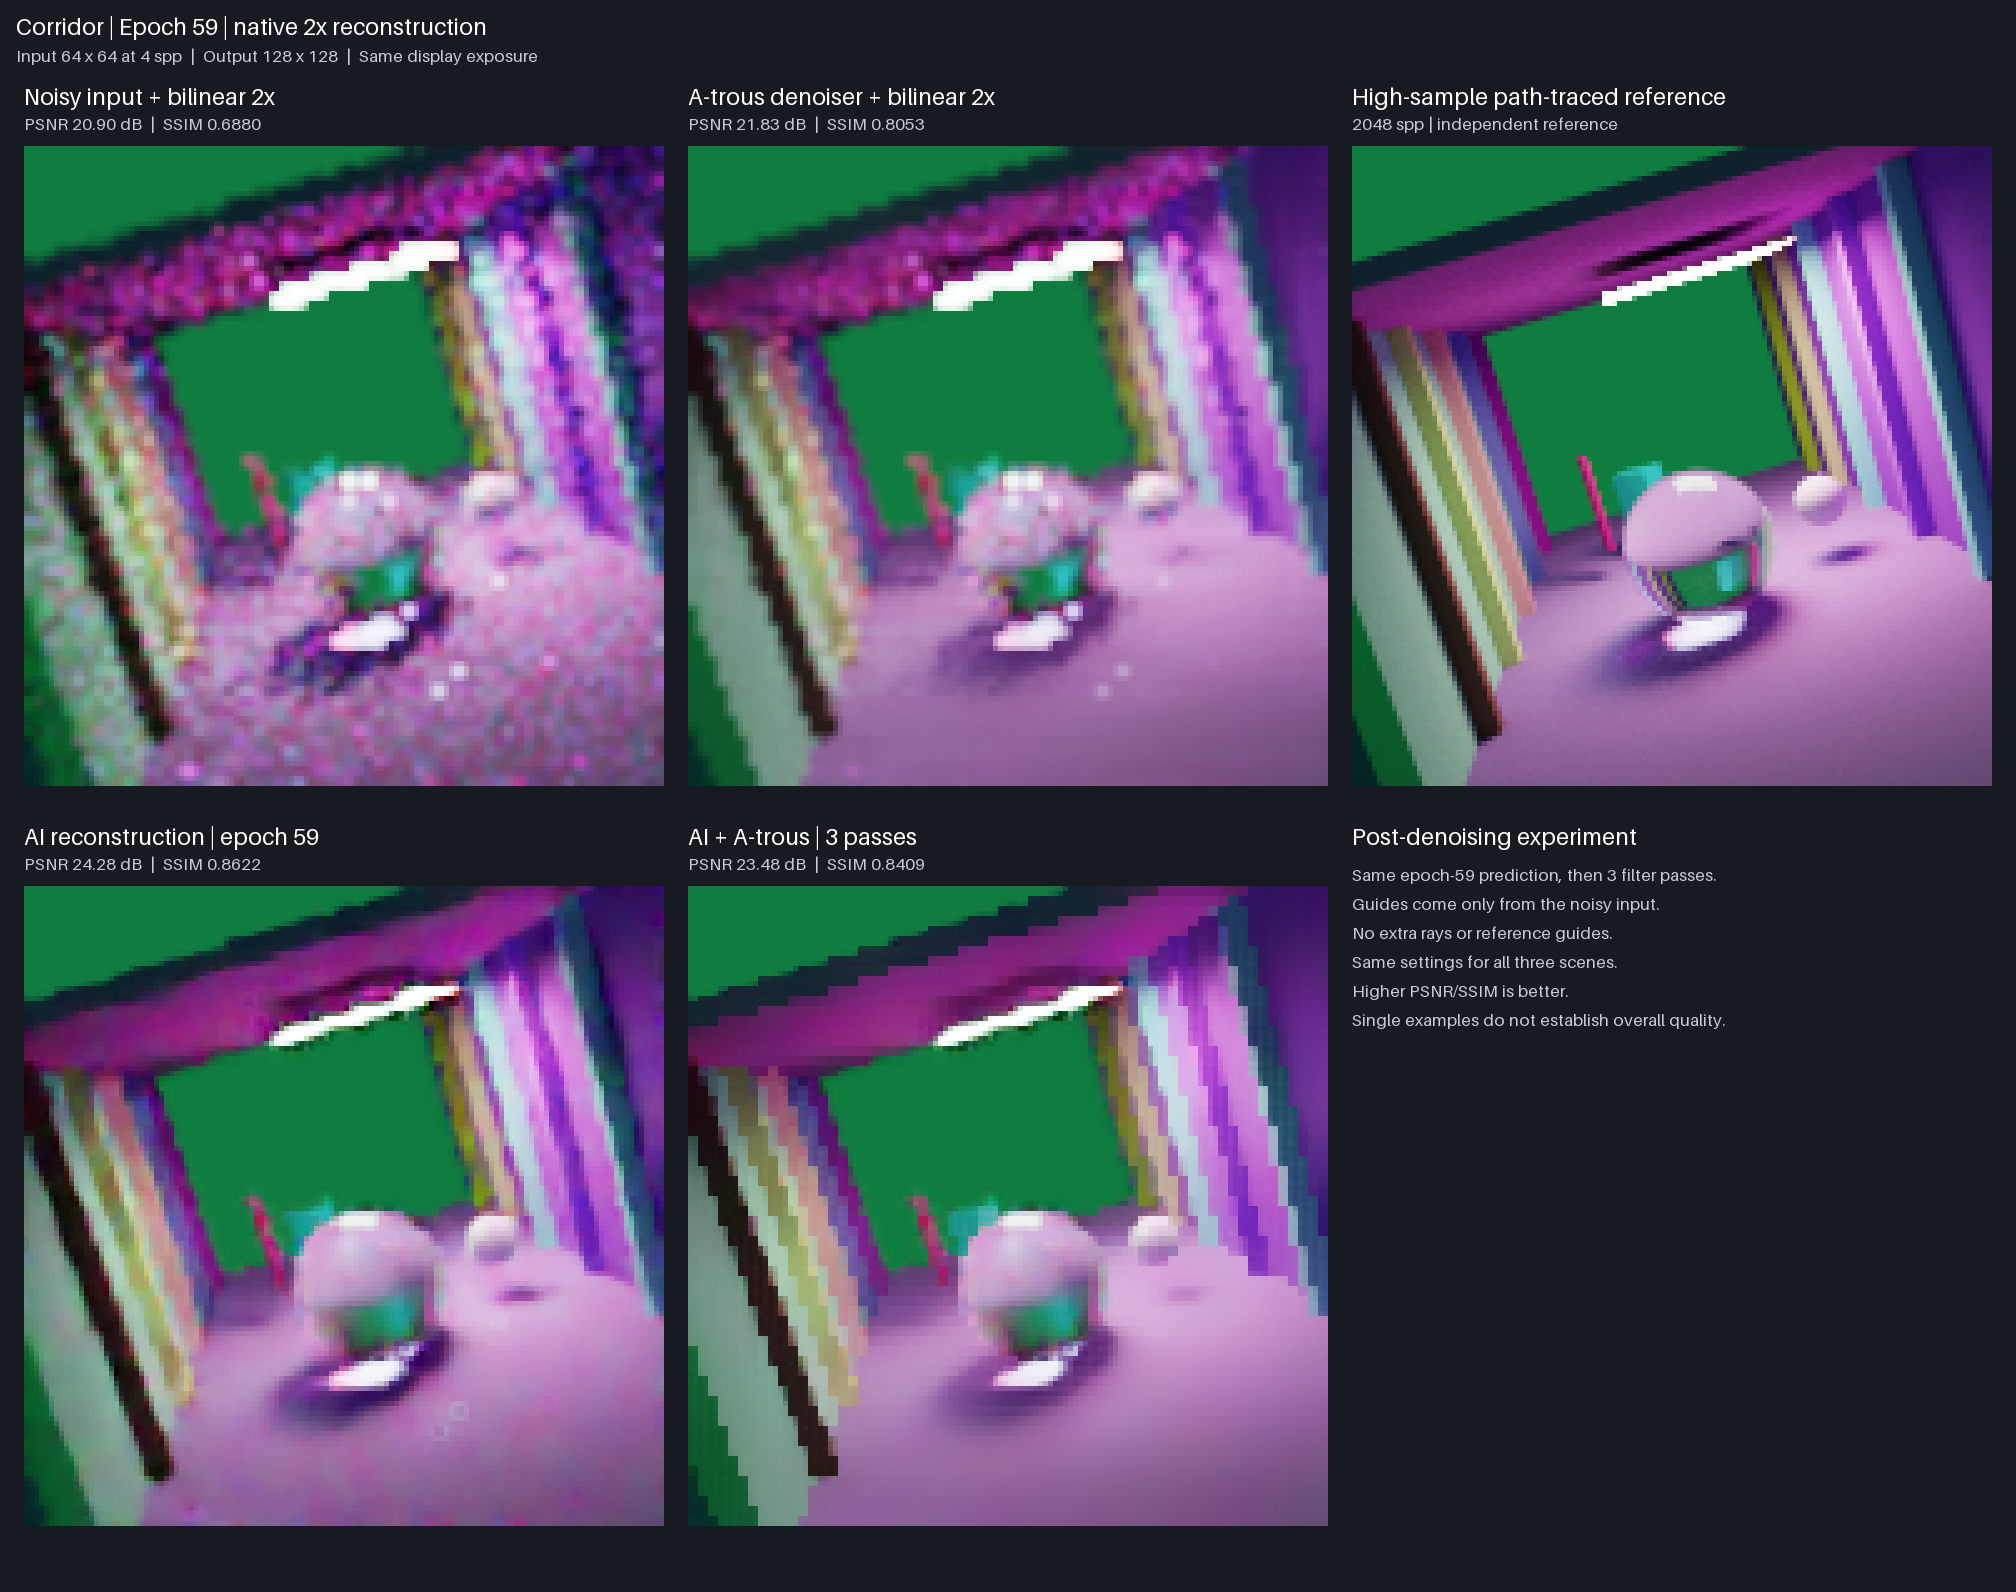
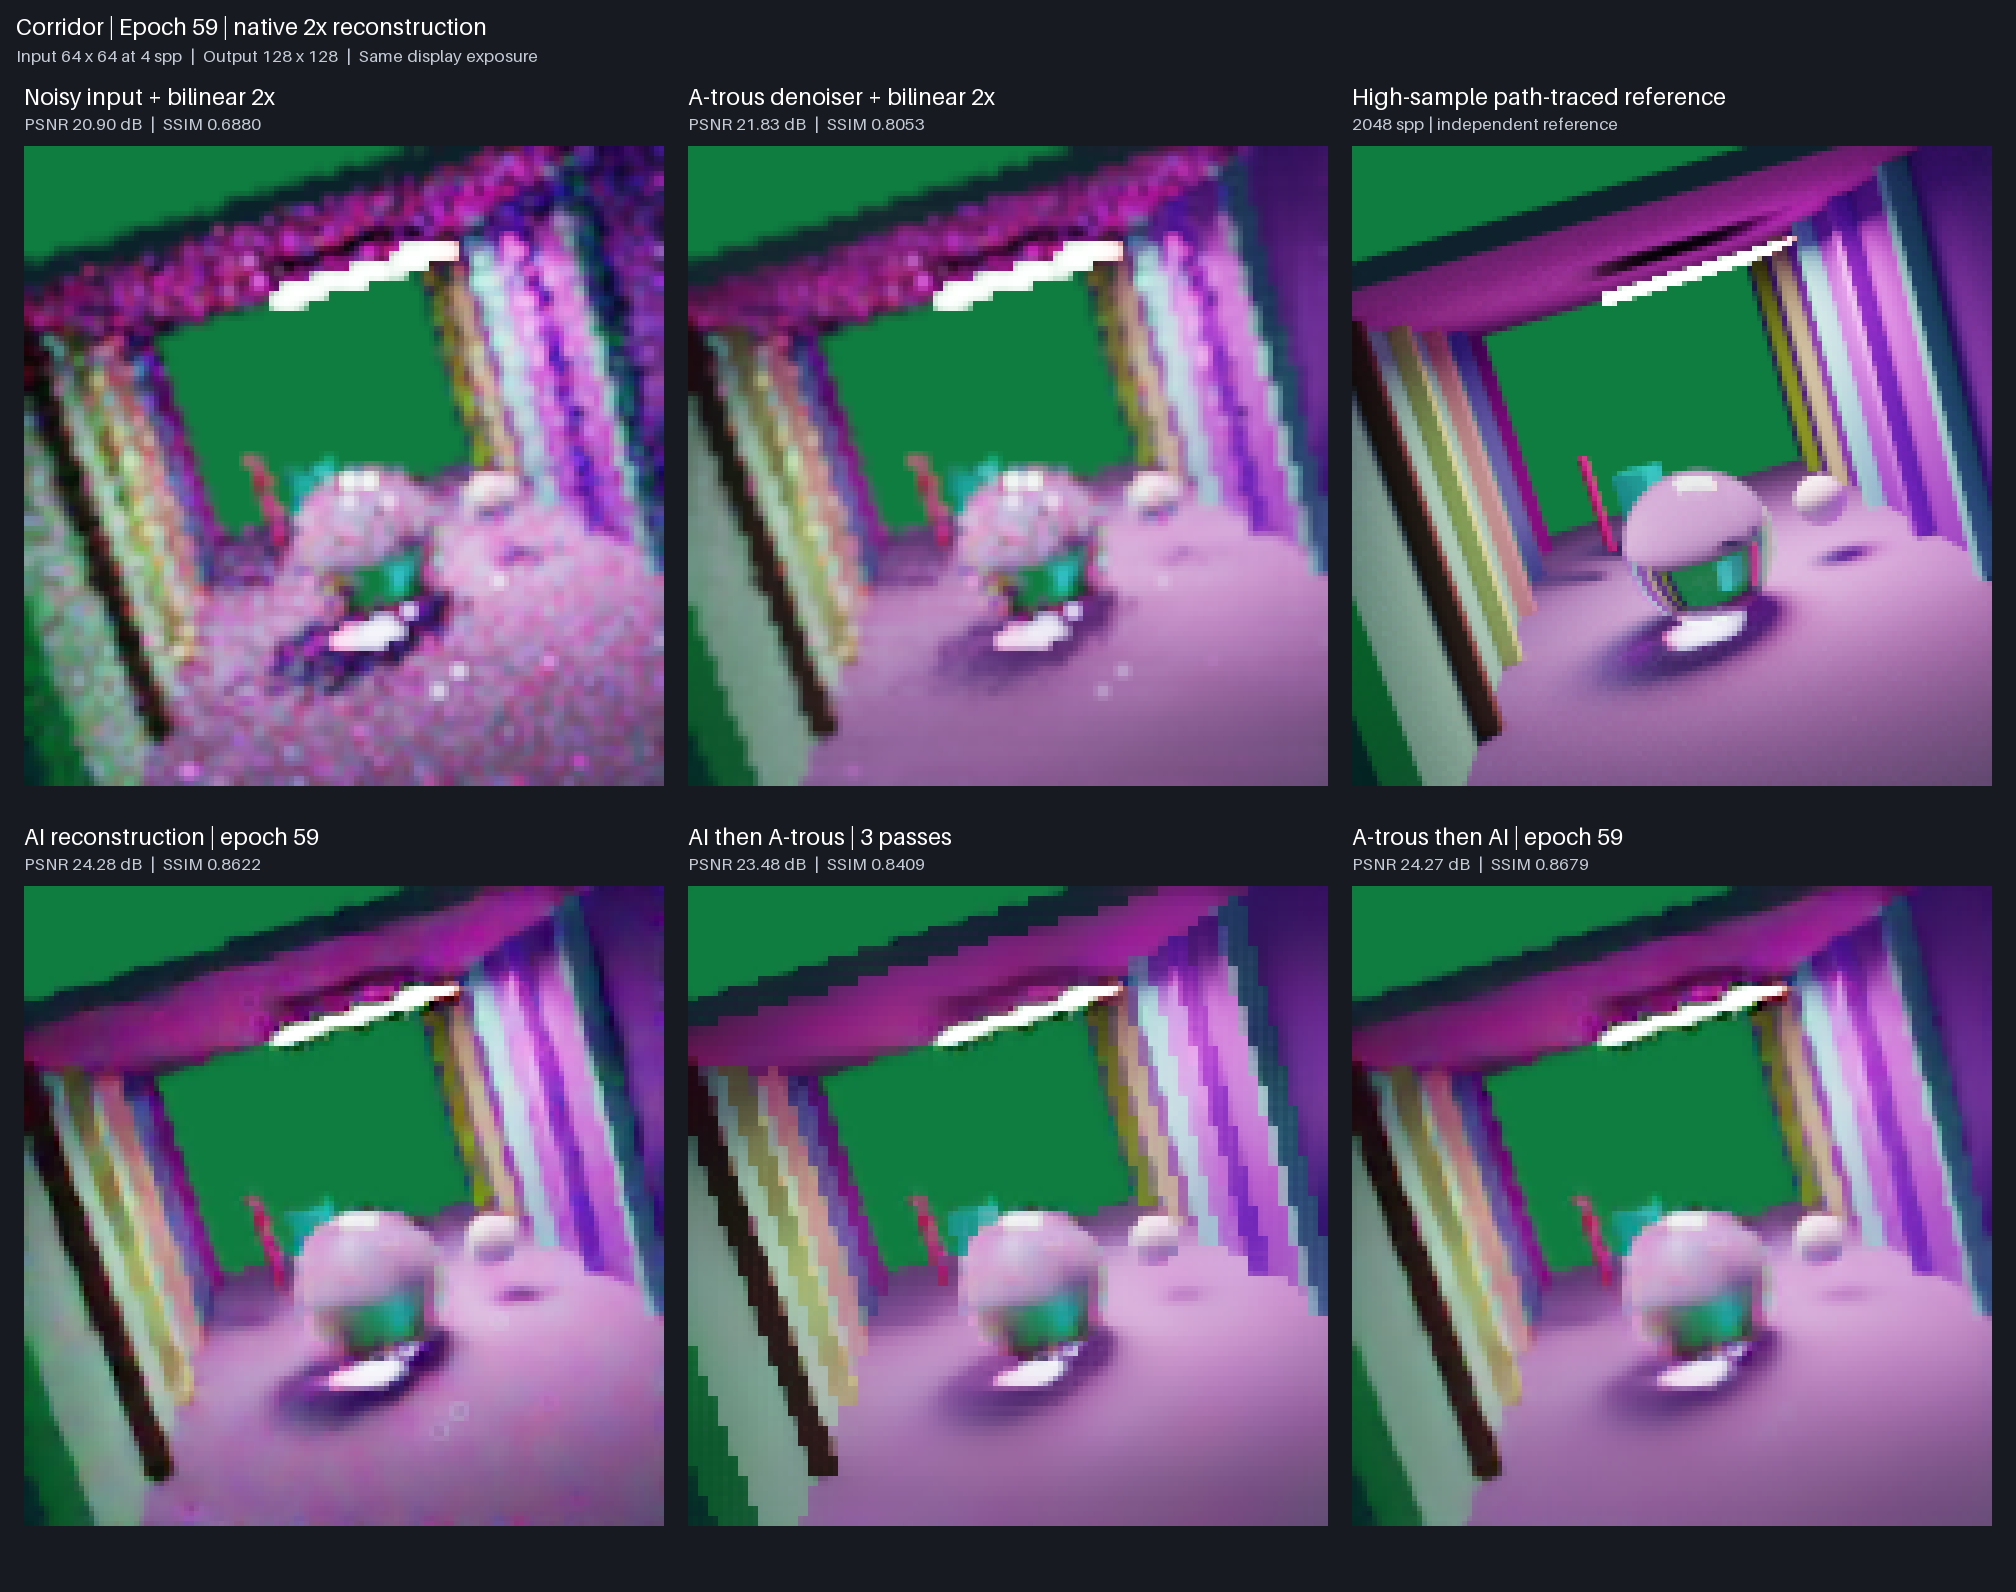
Add denoise-then-AI comparisons to all joint examples

Changed region(s): [[0.6562, 0.5232, 1.0, 0.9849], [0.375, 0.5232, 0.4688, 0.554]]

diff --git a/ml/reports/joint-reconstruction-results.md b/ml/reports/joint-reconstruction-results.md
@@ -21,10 +21,11 @@ The current model has not replaced the bundled pilot export.
 
 ## Example images
 
-Every grid contains five images. The top row shows noisy input with bilinear 2×
+Every grid contains six images. The top row shows noisy input with bilinear 2×
 enlargement, a-trous denoising with bilinear 2× enlargement, and an independent
 **2,048-spp reference** at the target resolution. The bottom row shows epoch-59
-learned reconstruction and that same prediction followed by a-trous denoising. All panels use the
+learned reconstruction, that same prediction followed by a-trous denoising, and
+a-trous denoising followed by the same AI model. All panels use the
 same ACES-fit/sRGB transform at exposure zero, with nearest-neighbor magnification
 for inspection. The model performs actual 2× reconstruction; display magnification
 does not add detail. Spp means samples per pixel.
@@ -36,7 +37,7 @@ a controlled sample-count sweep. The denoiser here is a-trous, not OIDN or DLSS.
 
 ### Courtyard · 1 spp · 96 × 64 → 192 × 128
 
-![Noisy, a-trous, reference, epoch-59 AI and AI-plus-denoising comparison for courtyard at 1 spp](figures/joint-epoch59-courtyard-1spp.png)
+![Noisy, a-trous, reference, epoch-59 AI and both AI-denoising orders comparison for courtyard at 1 spp](figures/joint-epoch59-courtyard-1spp.png)
 
 The AI reduces noise, but the glass object and reflections remain inaccurate.
 AI-only SSIM is almost tied with the denoiser. Post-denoising improves PSNR and
@@ -44,23 +45,25 @@ SSIM here, although the glass object still differs substantially from the refere
 
 ### Corridor · 4 spp · 64 × 64 → 128 × 128
 
-![Noisy, a-trous, reference, epoch-59 AI and AI-plus-denoising comparison for corridor at 4 spp](figures/joint-epoch59-corridor-4spp.png)
+![Noisy, a-trous, reference, epoch-59 AI and both AI-denoising orders comparison for corridor at 4 spp](figures/joint-epoch59-corridor-4spp.png)
 
 The AI improves the columns and lighting; thin structures, reflections and sharp
 edges remain softer than the reference. Post-denoising worsens both PSNR and SSIM.
 
 ### Shelves · 16 spp · 64 × 64 → 128 × 128
 
-![Noisy, a-trous, reference, epoch-59 AI and AI-plus-denoising comparison for shelves at 16 spp](figures/joint-epoch59-shelves-16spp.png)
+![Noisy, a-trous, reference, epoch-59 AI and both AI-denoising orders comparison for shelves at 16 spp](figures/joint-epoch59-shelves-16spp.png)
 
 The AI produces cleaner surfaces and more distinct objects, with residual blur on
 small shelf details. Post-denoising worsens both PSNR and SSIM.
 
-| Example | A-trous PSNR / SSIM | AI PSNR / SSIM | AI + a-trous PSNR / SSIM |
-| --- | ---: | ---: | ---: |
-| Courtyard, 1 spp | 19.58 dB / 0.7671 | 21.12 dB / 0.7676 | 21.60 dB / 0.8182 |
-| Corridor, 4 spp | 21.83 dB / 0.8053 | 24.28 dB / 0.8622 | 23.48 dB / 0.8409 |
-| Shelves, 16 spp | 25.90 dB / 0.8957 | 28.53 dB / 0.9373 | 27.93 dB / 0.9233 |
+Scores are PSNR / SSIM; higher is better.
+
+| Example | A-trous | AI | AI → a-trous | A-trous → AI |
+| --- | ---: | ---: | ---: | ---: |
+| Courtyard, 1 spp | 19.58 dB / 0.7671 | 21.12 dB / 0.7676 | 21.60 dB / 0.8182 | 21.32 dB / 0.8210 |
+| Corridor, 4 spp | 21.83 dB / 0.8053 | 24.28 dB / 0.8622 | 23.48 dB / 0.8409 | 24.27 dB / 0.8679 |
+| Shelves, 16 spp | 25.90 dB / 0.8957 | 28.53 dB / 0.9373 | 27.93 dB / 0.9233 | 28.20 dB / 0.9294 |
 
 ### Post-denoising procedure
 
@@ -77,6 +80,24 @@ their scores. Post-denoising helps the courtyard but hurts the other two example
 it is an illustration, not a new default inference mode. The training charts below
 still measure **AI alone**, and no broader quality or latency claim is made for this
 post-processing experiment.
+
+### Pre-denoising procedure
+
+The sixth panel feeds the saved input-resolution a-trous result to the unchanged
+epoch-59 model, replacing only RGB channels 0–2. All geometry/material guides and
+original sampling statistics stay unchanged. The AI then reconstructs at 2×
+resolution. Neither filter nor model receives reference pixels or reference guides.
+
+The model was trained on noisy RGB inputs, not these pre-denoised inputs. This is
+an inference-only experiment with a changed input distribution; the retained
+sampling statistics describe the original samples, not the filter's residual error.
+It is not a separately trained denoise-then-upscale model.
+
+On these examples, pre-denoising improves courtyard PSNR/SSIM over AI alone,
+improves corridor SSIM with essentially unchanged PSNR, and worsens shelves
+PSNR/SSIM. Neither ordering is consistently best. The original selection and
+training charts still measure AI alone; these three comparisons do not qualify
+either combination as a new default or establish a timing advantage.
 
 ## Training and remaining quality gaps
 

diff --git a/README.md b/README.md
@@ -25,12 +25,12 @@ validation averages 29.82 dB PSNR / 0.9173 SSIM, compared with 25.98 dB / 0.8768
 for a-trous plus bilinear 2× enlargement. Full quality requirements remain unmet,
 and an end-to-end rendering speed advantage is not established.
 
-![Epoch-59 comparison: noisy input, a-trous denoiser, high-sample reference, AI reconstruction and AI followed by denoising](ml/reports/figures/joint-epoch59-corridor-4spp.png)
+![Epoch-59 comparison: noisy input, a-trous denoiser, high-sample reference, AI reconstruction, AI followed by denoising, and denoising followed by AI](ml/reports/figures/joint-epoch59-corridor-4spp.png)
 
 *Corridor validation example · 4 samples/pixel at 64 × 64 → 128 × 128.
 Reference: 2,048 samples/pixel. Common exposure; enlarged for inspection.
 The AI improves noise and structure while retaining some blur and reflection errors.
-The fifth panel adds denoising after AI; it worsens this corridor example.*
+The bottom row compares AI alone, AI then denoising, and denoising then AI.*
 
 ![Training loss, native image quality and HDR error through 69 epochs](ml/reports/figures/joint-training-history.png)
 

diff --git a/ml/reports/README.md b/ml/reports/README.md
@@ -4,7 +4,7 @@
 
 The **[epoch-59 gallery and training charts](joint-reconstruction-results.md)**
 show three native validation scenes at 1, 4 and 16 samples/pixel, with noisy input,
-a-trous, AI, AI followed by a-trous, and 2,048-spp reference panels. The run stopped at epoch 69; epoch 59
+a-trous, AI, both AI/denoising orders, and 2,048-spp reference panels. The run stopped at epoch 69; epoch 59
 is the selected best. Full quality qualification and rendering speedup remain open.
 
 ![Epoch-59 native quality by input sample count](figures/joint-native-quality.png)
